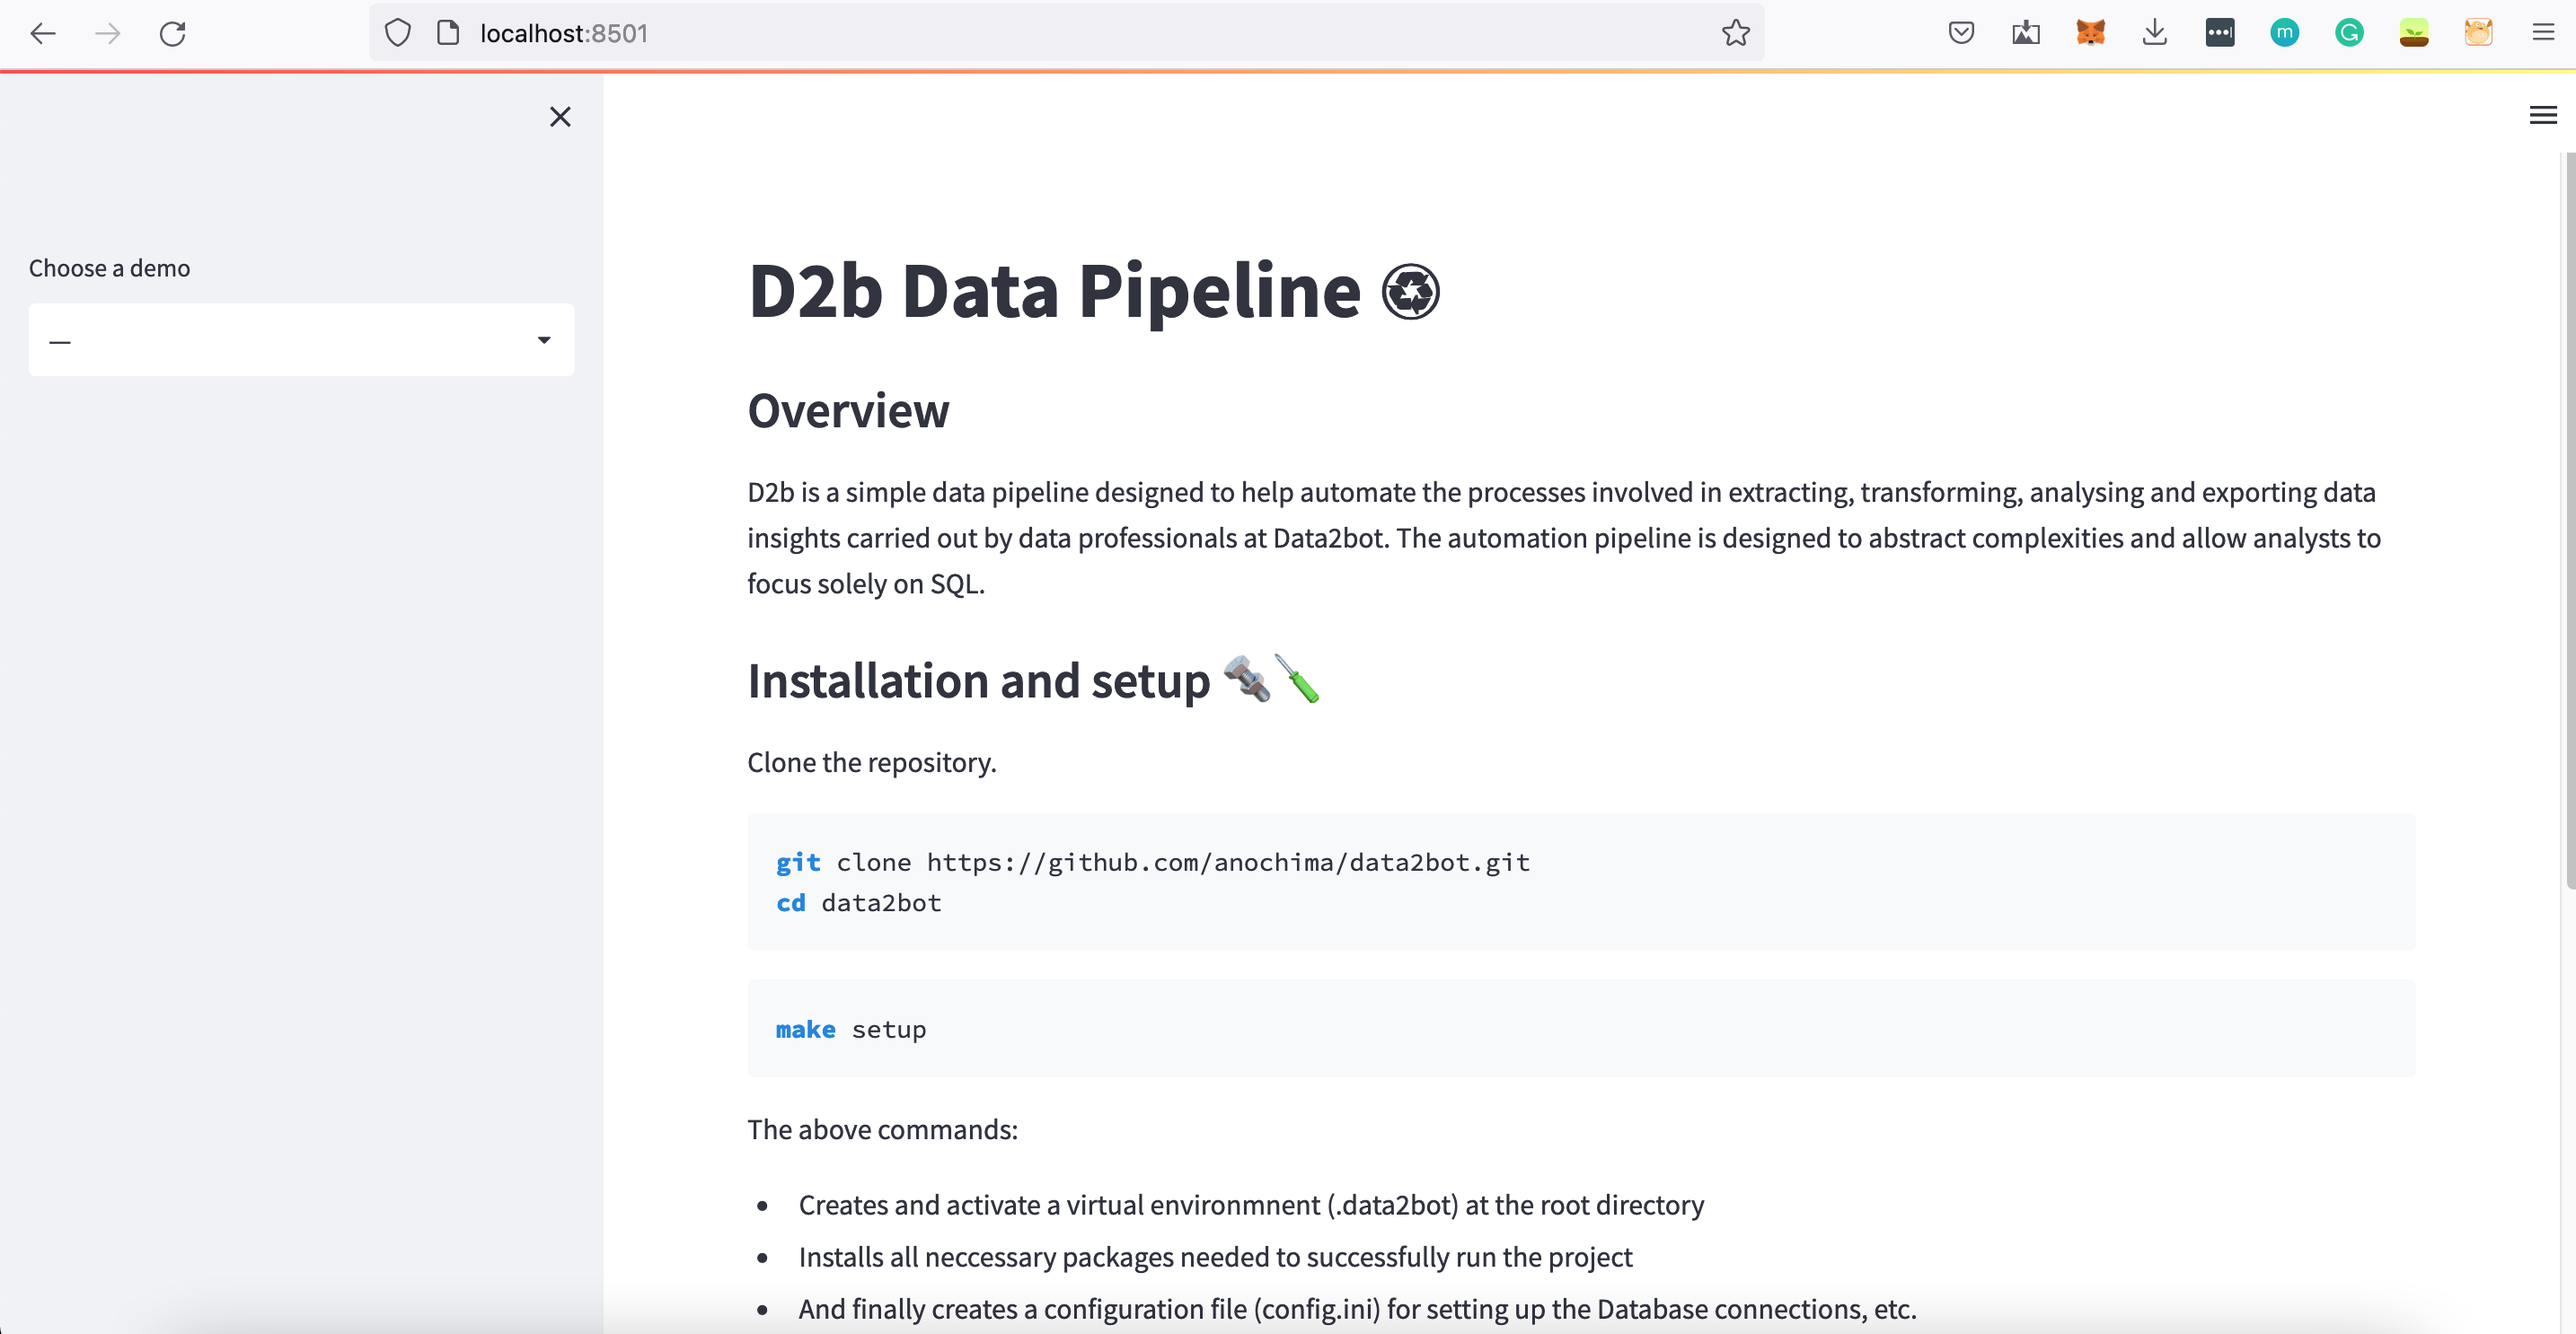
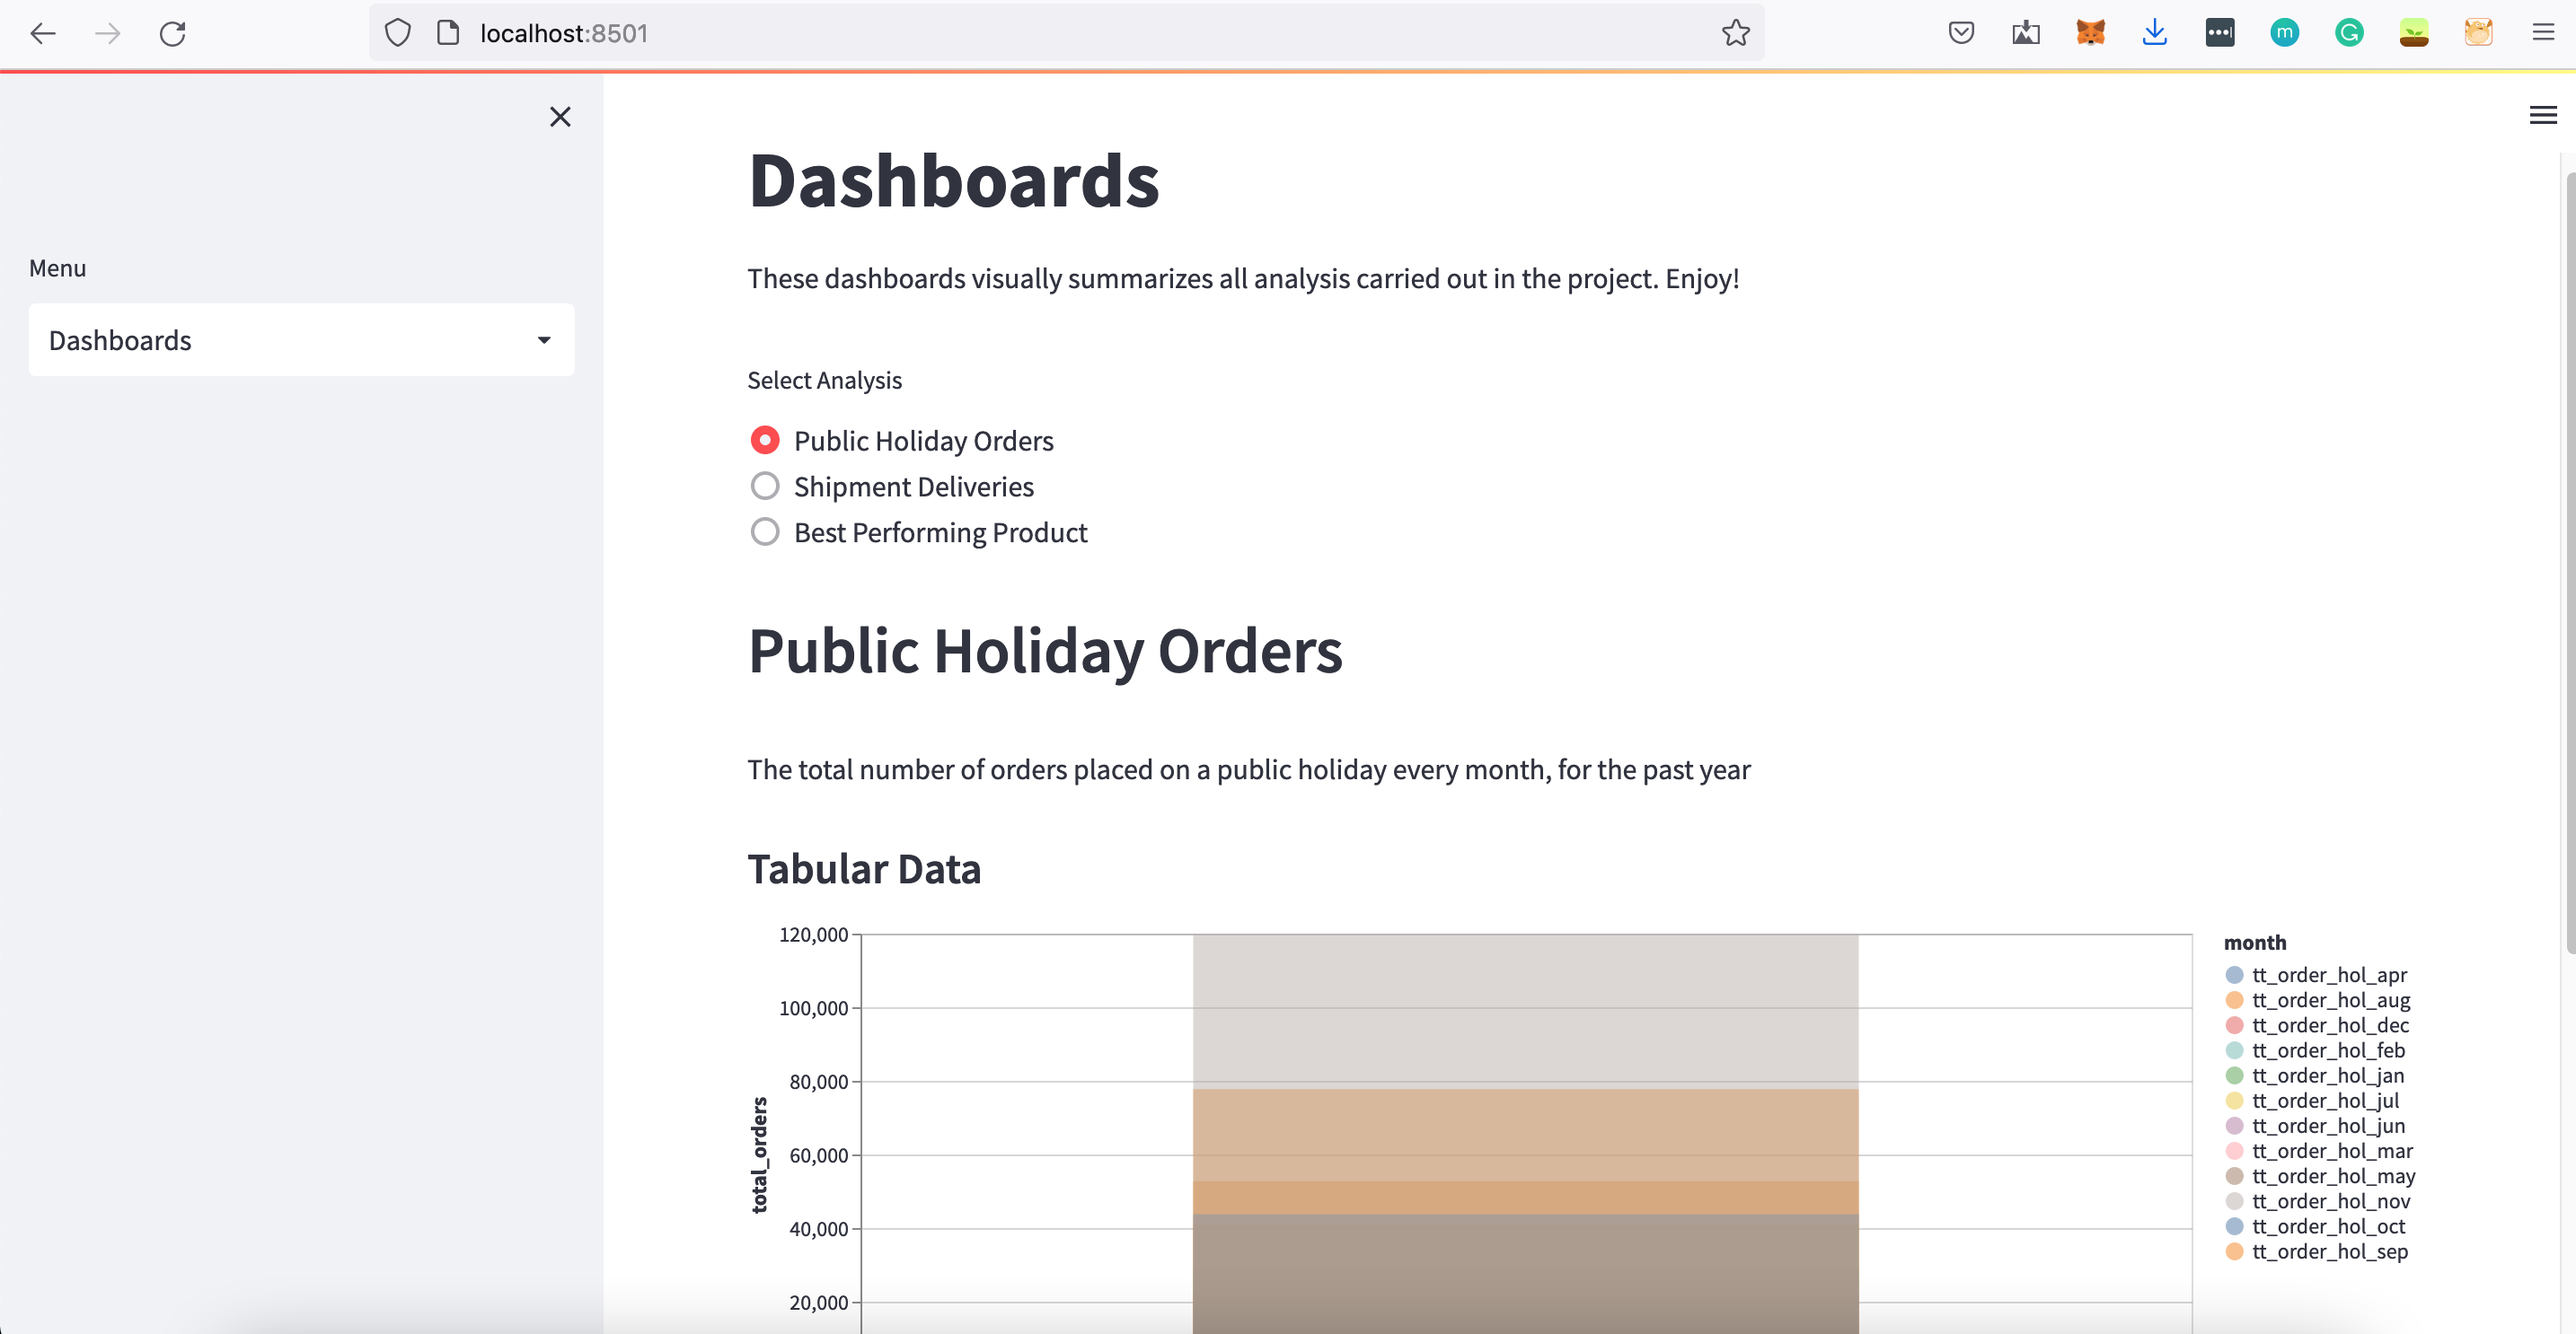
update dashboard

diff --git a/scripts/streamlit_app.py b/scripts/streamlit_app.py
@@ -2,6 +2,9 @@
 import numpy as np
 import streamlit as st
 
+# setup page configuration
+st.set_page_config(
+    layout='wide', page_icon='https://data2bots.com/wp-content/uploads/2018/11/image_1_8-2.png')
 
 def intro():
 
@@ -37,51 +40,60 @@ def intro():
     """
     )
 
+
 def plot_analytics():
-    import time
+    import altair as alt
     import pandas as pd
     import matplotlib.pyplot as plt
     from Handlers.env_handler import env
 
-    st.markdown(f'# {list(page_names_to_funcs.keys())[1]}')
+    st.markdown(f"# {list(page_names_to_funcs.keys())[1]}")
     st.write(
         """
-        This demo illustrates a combination of plotting and animation with
-        Streamlit. We're generating a bunch of random numbers in a loop for around
-        5 seconds. Enjoy!
+        These dashboards visually summarizes all analysis carried out in the project. Enjoy!
         """
     )
-    st.write('\n')
-    plot = st.radio('Select Analysis', [
-                         'Public Holiday Orders', 'Shipment Deliveries', 'Best Performing Product'], horizontal=True)
-    
-    if plot.lower() == 'public holiday orders':
-        st.write('### Tabular Data')
+    st.write("\n")
+    plot = st.radio(
+        "Select Analysis",
+        ["Public Holiday Orders", "Shipment Deliveries", "Best Performing Product"],
+        horizontal=False,
+    )
+    if plot.lower() == "public holiday orders":
+
+        st.header('Public Holiday Orders')
+        st.write(
+            'The total number of orders placed on a public holiday every month, for the past year')
+        st.write("#### Tabular Data")
         df = pd.read_csv("../data2bot/data/transformed/agg_public_holiday.csv")
-        df.reset_index()    
         df = df.set_index("ingestion_date")
-        st.dataframe(df)
+        df = df.T.reset_index()
+
+        df = pd.melt(df, id_vars=["index"]).rename(
+            columns={"index": "month",
+                     "value": "total_orders"}
+        )
+
+        chart = (
+            alt.Chart(df)
+            .mark_area(opacity=0.5)
+            .encode(
+                x="ingestion_date",
+                y=alt.Y("total_orders:Q", stack=None),
+                color="month:N",
+            )
+        )
+        st.altair_chart(chart, use_container_width=True)
+        
 
 
-    elif plot.lower() == 'shipment deliveries':
+    elif plot.lower() == "shipment deliveries":
         pass
     else:
-        pass
+        col1, col2 = st.columns(2)
+        col1.metric("Most Ordered Date", "70 °F", "1.2 °F")
+        col2.metric("Wind", "9 mph", "-8%")
 
-    progress_bar = st.sidebar.progress(0)
-    status_text = st.sidebar.empty()
-    last_rows = np.random.randn(1, 1)
-    chart = st.line_chart(last_rows)
-
-    for i in range(1, 101):
-        new_rows = last_rows[-1, :] + np.random.randn(5, 1).cumsum(axis=0)
-        status_text.text("%i%% Complete" % i)
-        chart.add_rows(new_rows)
-        progress_bar.progress(i)
-        last_rows = new_rows
-        time.sleep(0.05)
-
-    progress_bar.empty()
 
 
 def data_frame_demo():
@@ -90,7 +102,7 @@ def data_frame_demo():
     import altair as alt
     from urllib.error import URLError
 
-    st.markdown(f"# {list(page_names_to_funcs.keys())[3]}")
+    st.markdown(f"# {list(page_names_to_funcs.keys())[2]}")
     st.write(
         """
         This demo shows how to use `st.write` to visualize Pandas DataFrames.
@@ -108,21 +120,18 @@ def data_frame_demo():
     try:
         df = get_UN_data()
         countries = st.multiselect(
-            "Choose countries", list(df.index), [
-                "China", "United States of America"]
+            "Choose countries", list(df.index), ["China", "United States of America"]
         )
         if not countries:
             st.error("Please select at least one country.")
         else:
             data = df.loc[countries]
             data /= 1000000.0
-            st.write("### Gross Agricultural Production ($B)",
-                     data.sort_index())
+            st.write("### Gross Agricultural Production ($B)", data.sort_index())
 
             data = data.T.reset_index()
             data = pd.melt(data, id_vars=["index"]).rename(
-                columns={"index": "year",
-                         "value": "Gross Agricultural Product ($B)"}
+                columns={"index": "year", "value": "Gross Agricultural Product ($B)"}
             )
             chart = (
                 alt.Chart(data)
@@ -145,10 +154,8 @@ def data_frame_demo():
         )
 
 
-page_names_to_funcs = {
-    "—": intro,
-    "Dashboards": plot_analytics
-}
+page_names_to_funcs = {"—": intro,
+                       "Dashboards": plot_analytics, 'plot': data_frame_demo}
 
-d2b = st.sidebar.selectbox("Choose a demo", page_names_to_funcs.keys())
+d2b = st.sidebar.selectbox("Menu", page_names_to_funcs.keys())
 page_names_to_funcs[d2b]()

diff --git a/scripts/Providers/AnalyticsServiceProvider.py b/scripts/Providers/AnalyticsServiceProvider.py
@@ -22,7 +22,7 @@ conn.autocommit = True
 
 
 class AnalyticsServiceProvider(Service):
-
+    
     # name of analytics in sql e.g. "product_analysis.sql"
     def __init__(self, service_list: List = None) -> None:
 

diff --git a/docs/index.md b/docs/index.md
@@ -181,5 +181,12 @@ make run
 ```
 <img src='assets/run.png'/>
 
+## Visualization and Summarization
+There's an easy way to visualize the analysis on a local server using streamlit.
+```bash
+make serve
+```
+<img src='docs/assets/dashboard.png' alt='home dashboard'/>
+
 ## **Documentation**
 To read the documentation, run `mkdocs serve` on terminal
